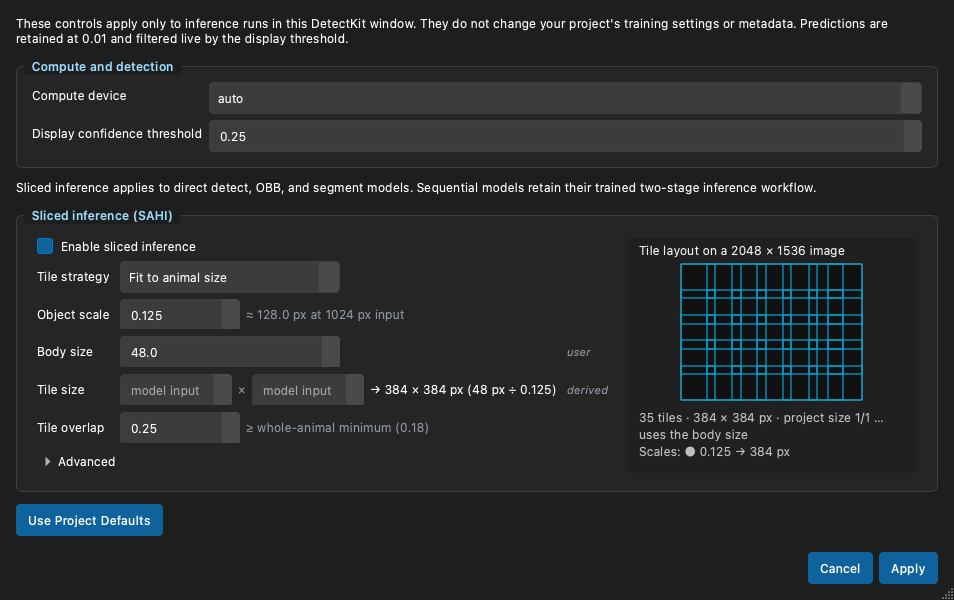
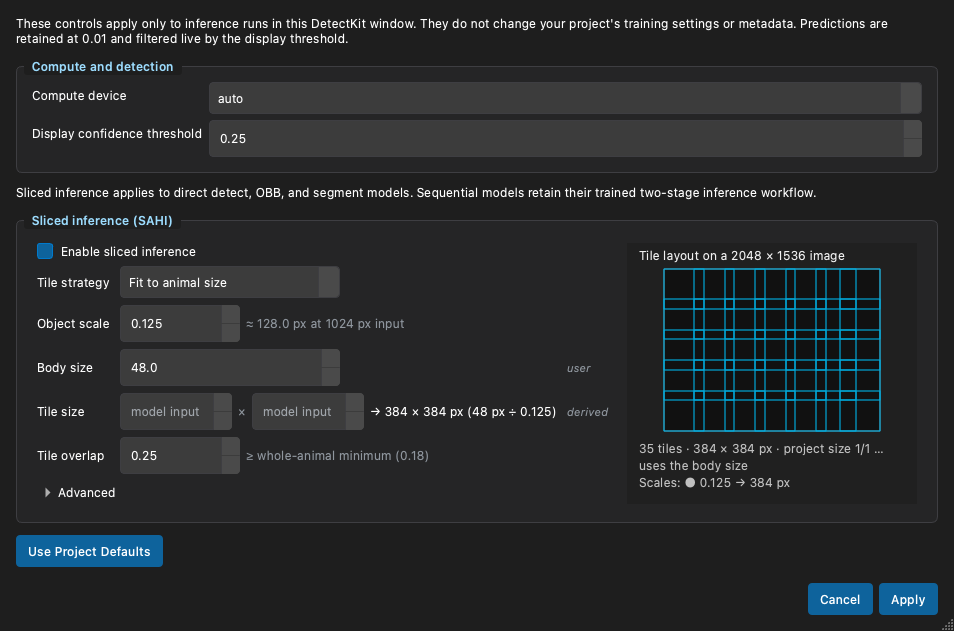
docs(sahi): regenerate the gallery for the bottom preview and SAHI-off collapse
TrackerKit shots now show the preview stacked under the controls at the
panel's own width (544 px page, no sideways overflow from SAHI); new
host_trackerkit_off.png shows SAHI unticked collapsed to its checkbox.
DetectKit side-layout shots are unchanged in layout. The gallery test's
expected list gains host_trackerkit_off.png.

diff --git a/tools/sahi_widget_gallery.py b/tools/sahi_widget_gallery.py
@@ -12,7 +12,9 @@ published model leaks into the pictures. Writes PNGs into ``--out``:
   sidecar with two calibration profiles): ``host_trackerkit.png`` on the
   primary profile with a loaded 2448 x 2048 video's frame size,
   ``host_trackerkit_custom.png`` on the custom-geometry profile with Advanced
-  expanded and no video (the labelled example frame).
+  expanded and no video (the labelled example frame), and
+  ``host_trackerkit_off.png`` with SAHI unticked (collapsed to the checkbox).
+  TrackerKit stacks the preview below the controls (``preview_position``).
 
 Usage::
 
@@ -396,6 +398,13 @@ def render_trackerkit(out: Path, app, root: Path) -> list[Path]:
     written.append(
         _grab_scroll_page(
             window, panel.slice_settings, out / "host_trackerkit_custom.png", app
+        )
+    )
+    panel.chk_slice_enabled.setChecked(False)  # the user path: collapses
+    _assert_yolo_page(panel)
+    written.append(
+        _grab_scroll_page(
+            window, panel.slice_settings, out / "host_trackerkit_off.png", app
         )
     )
     window.close()

diff --git a/tests/test_sahi_widget_gallery.py b/tests/test_sahi_widget_gallery.py
@@ -27,6 +27,7 @@ EXPECTED = (
         "host_sam2_escalation.png",
         "host_trackerkit.png",
         "host_trackerkit_custom.png",
+        "host_trackerkit_off.png",
     ]
 )
 
